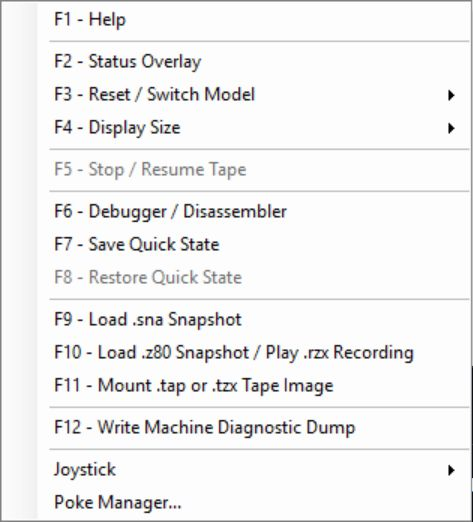
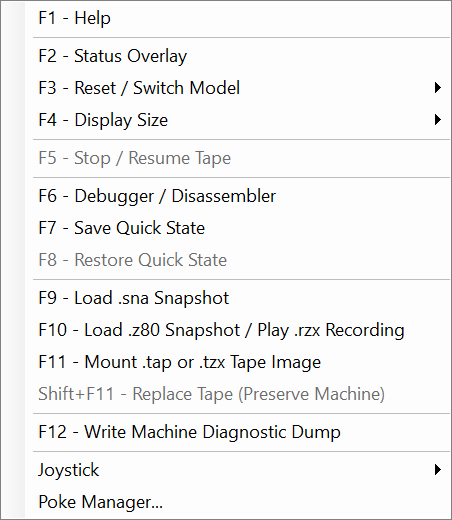
Add tape side replacement without reset

Changed region(s): [[0.0, 0.0, 1.0, 1.0], [0.0, 0.0, 0.031, 0.0308]]

diff --git a/Spectrum128kEmulator.Windows.Tests/MainFormMenuTests.cs b/Spectrum128kEmulator.Windows.Tests/MainFormMenuTests.cs
@@ -40,6 +40,7 @@ namespace Spectrum128kEmulator.Tests
                             "F9 - Load .sna Snapshot",
                             "F10 - Load .z80 Snapshot / Play .rzx Recording",
                             "F11 - Mount .tap or .tzx Tape Image",
+                            "Shift+F11 - Replace Tape (Preserve Machine)",
                             "---",
                             "F12 - Write Machine Diagnostic Dump",
                             "---",
@@ -75,6 +76,68 @@ namespace Spectrum128kEmulator.Tests
             Assert.False((bool)method.Invoke(null, [new KeyEventArgs(key | Keys.Shift), key])!);
             Assert.False((bool)method.Invoke(null, [new KeyEventArgs(key | Keys.Control), key])!);
             Assert.False((bool)method.Invoke(null, [new KeyEventArgs(key | Keys.Alt), key])!);
+        }
+
+        [Fact]
+        public void TapeReplacementShortcut_RequiresShiftF11()
+        {
+            MethodInfo method = typeof(MainForm).GetMethod(
+                "IsTapeReplacementShortcut",
+                BindingFlags.Static | BindingFlags.NonPublic)!;
+
+            Assert.True((bool)method.Invoke(null, [new KeyEventArgs(Keys.F11 | Keys.Shift)])!);
+            Assert.False((bool)method.Invoke(null, [new KeyEventArgs(Keys.F11)])!);
+            Assert.False((bool)method.Invoke(null, [new KeyEventArgs(Keys.F11 | Keys.Control)])!);
+            Assert.False((bool)method.Invoke(null, [new KeyEventArgs(Keys.F11 | Keys.Shift | Keys.Alt)])!);
+        }
+
+        [Fact]
+        public void ReplaceMountedTape_PreservesRunningMachineState()
+        {
+            string tapePath = Path.Combine(Path.GetTempPath(), $"replacement-{Guid.NewGuid():N}.tap");
+            File.WriteAllBytes(tapePath, [0x02, 0x00, 0xFF, 0xFF]);
+            Exception? failure = null;
+            var thread = new Thread(() =>
+            {
+                try
+                {
+                    using var form = new MainForm();
+                    MethodInfo acquirePauseMethod = typeof(MainForm).GetMethod(
+                        "AcquireEmulationPauseLease",
+                        BindingFlags.Instance | BindingFlags.NonPublic)!;
+                    using var pauseLease = (IDisposable)acquirePauseMethod.Invoke(form, null)!;
+                    FieldInfo machineField = typeof(MainForm).GetField(
+                        "machine",
+                        BindingFlags.Instance | BindingFlags.NonPublic)!;
+                    var machine = (Spectrum128Machine)machineField.GetValue(form)!;
+                    machine.Reset(SpectrumMachineModel.Spectrum48K);
+                    machine.Cpu.Regs.PC = 0x8123;
+                    machine.PokeMemory(0x9000, 0x5A);
+                    machine.MountTape(new Tap.MountedTape("side-1.tzx", Array.Empty<Tap.TapeBlock>()));
+
+                    MethodInfo replaceMethod = typeof(MainForm).GetMethod(
+                        "ReplaceMountedTape",
+                        BindingFlags.Instance | BindingFlags.NonPublic)!;
+                    var result = (Tap.TapMountResult)replaceMethod.Invoke(form, [tapePath])!;
+
+                    Assert.Same(machine, machineField.GetValue(form));
+                    Assert.Equal(SpectrumMachineModel.Spectrum48K, machine.MachineModel);
+                    Assert.Equal((ushort)0x8123, machine.Cpu.Regs.PC);
+                    Assert.Equal((byte)0x5A, machine.PeekMemory(0x9000));
+                    Assert.Equal(Path.GetFileName(tapePath), machine.MountedTapeName);
+                    Assert.Equal(1, result.TotalBlockCount);
+                }
+                catch (Exception exception)
+                {
+                    failure = exception;
+                }
+            });
+            thread.SetApartmentState(ApartmentState.STA);
+            thread.Start();
+            Assert.True(thread.Join(TimeSpan.FromSeconds(15)), "The tape replacement test timed out.");
+            File.Delete(tapePath);
+            if (failure != null)
+                throw new Xunit.Sdk.XunitException(failure.ToString());
         }
     }
 }

diff --git a/Forms/MainForm.Media.cs b/Forms/MainForm.Media.cs
@@ -53,7 +53,7 @@ namespace Spectrum128kEmulator
         {
             using var dialog = new OpenFileDialog
             {
-                Title = "Mount .tap Tape Image",
+                Title = "Mount Tape Image",
                 Filter = "Spectrum tape images (*.tap;*.tzx)|*.tap;*.tzx|All files (*.*)|*.*",
                 CheckFileExists = true,
                 Multiselect = false
@@ -112,6 +112,71 @@ namespace Spectrum128kEmulator
                     "Tape Mount Error",
                     MessageBoxButtons.OK,
                     MessageBoxIcon.Error);
+            }
+        }
+
+        private void ReplaceMountedTapeFromDialog()
+        {
+            lock (machineLock)
+            {
+                if (!machine.HasMountedTape)
+                    return;
+            }
+
+            using var dialog = new OpenFileDialog
+            {
+                Title = "Replace Mounted Tape (Preserve Machine)",
+                Filter = "Spectrum tape images (*.tap;*.tzx)|*.tap;*.tzx|All files (*.*)|*.*",
+                CheckFileExists = true,
+                Multiselect = false
+            };
+            using IDisposable pauseLease = AcquireEmulationPauseLease();
+
+            if (dialog.ShowDialog(this) != DialogResult.OK)
+                return;
+
+            try
+            {
+                string extension = Path.GetExtension(dialog.FileName);
+                string displayName = Path.GetFileName(dialog.FileName);
+                Tap.TapMountResult result = default!;
+                ExecuteWithEmulationPaused(() =>
+                {
+                    ClearHostAndSpectrumInputState();
+                    result = ReplaceMountedTape(dialog.FileName);
+                    fpsLabel.Text = $"{extension.TrimStart('.').ToUpperInvariant()} side mounted: {displayName} ({result.TotalBlockCount} blocks)";
+                });
+
+                SetLoadedMediaDisplayName(dialog.FileName);
+                SuppressSpectrumHostInputForMilliseconds(PostLoadInputSuppressionMilliseconds);
+                ShowMountedTapeTransportFeedback();
+                PresentCurrentMachineFrame(frameClock.ElapsedTicks, force: true);
+                screenBox.Focus();
+            }
+            catch (Exception ex)
+            {
+                MessageBox.Show(
+                    this,
+                    $"Failed to replace tape:\n{ex.Message}",
+                    "Tape Replacement Error",
+                    MessageBoxButtons.OK,
+                    MessageBoxIcon.Error);
+            }
+        }
+
+        private Tap.TapMountResult ReplaceMountedTape(string path)
+        {
+            string extension = Path.GetExtension(path);
+            lock (machineLock)
+            {
+                if (!machine.HasMountedTape)
+                    throw new InvalidOperationException("There is no mounted tape to replace.");
+
+                return extension.Equals(".tzx", StringComparison.OrdinalIgnoreCase)
+                    ? Tap.TzxLoader.Mount(machine, path)
+                    : extension.Equals(".tap", StringComparison.OrdinalIgnoreCase)
+                        ? Tap.TapLoader.Mount(machine, path)
+                        : throw new InvalidOperationException("Tape replacement requires a .tap or .tzx image.");
             }
         }
 

diff --git a/Forms/MainForm.cs b/Forms/MainForm.cs
@@ -70,6 +70,7 @@ namespace Spectrum128kEmulator
         private readonly ToolStripMenuItem disassemblerMenuItem = new ToolStripMenuItem("F6 - Debugger / Disassembler");
         private readonly ToolStripMenuItem saveQuickStateMenuItem = new ToolStripMenuItem("F7 - Save Quick State");
         private readonly ToolStripMenuItem restoreQuickStateMenuItem = new ToolStripMenuItem("F8 - Restore Quick State");
+        private readonly ToolStripMenuItem replaceTapeMenuItem = new ToolStripMenuItem("Shift+F11 - Replace Tape (Preserve Machine)");
         private readonly ToolStripMenuItem joystickMenuItem = new ToolStripMenuItem("Joystick");
         private readonly ToolStripMenuItem pokeManagerMenuItem = new ToolStripMenuItem("Poke Manager...");
 
@@ -237,6 +238,8 @@ namespace Spectrum128kEmulator
             displayContextMenu.Items.Add("F9 - Load .sna Snapshot", null, (_, _) => LoadSnaSnapshotFromDialog());
             displayContextMenu.Items.Add("F10 - Load .z80 Snapshot / Play .rzx Recording", null, (_, _) => LoadSnapshotOrRecordingFromDialog());
             displayContextMenu.Items.Add("F11 - Mount .tap or .tzx Tape Image", null, (_, _) => MountTapFromDialog());
+            replaceTapeMenuItem.Click += (_, _) => ReplaceMountedTapeFromDialog();
+            displayContextMenu.Items.Add(replaceTapeMenuItem);
             displayContextMenu.Items.Add(new ToolStripSeparator());
             displayContextMenu.Items.Add("F12 - Write Machine Diagnostic Dump", null, (_, _) => DumpMachineDebugState());
             displayContextMenu.Items.Add(new ToolStripSeparator());
@@ -248,6 +251,8 @@ namespace Spectrum128kEmulator
             {
                 UpdateTapeTransportMenuItem();
                 UpdateQuickStateMenuItems();
+                lock (machineLock)
+                    replaceTapeMenuItem.Enabled = machine.HasMountedTape;
             };
             UpdateMachineModelMenuItems();
             UpdateTapeTransportMenuItem();

diff --git a/Forms/MainForm.Input.cs b/Forms/MainForm.Input.cs
@@ -115,6 +115,14 @@ namespace Spectrum128kEmulator
                 return;
             }
 
+            if (IsTapeReplacementShortcut(e))
+            {
+                ReplaceMountedTapeFromDialog();
+                e.Handled = true;
+                e.SuppressKeyPress = true;
+                return;
+            }
+
             if (IsPlainShortcut(e, Keys.F11))
             {
                 MountTapFromDialog();
@@ -144,6 +152,9 @@ namespace Spectrum128kEmulator
             e.Handled = true;
             e.SuppressKeyPress = true;
         }
+
+        private static bool IsTapeReplacementShortcut(KeyEventArgs e) =>
+            e.KeyCode == Keys.F11 && e.Shift && !e.Control && !e.Alt;
 
         private void MainForm_KeyUp(object? sender, KeyEventArgs e)
         {

diff --git a/Forms/EmulatorHelpForm.cs b/Forms/EmulatorHelpForm.cs
@@ -25,6 +25,7 @@ namespace Spectrum128kEmulator
                 ("F9", "Load a 48K or 128K .sna snapshot"),
                 ("F10", "Load a .z80 snapshot or play an .rzx recording"),
                 ("F11", "Mount a .tap or .tzx tape image"),
+                ("Shift+F11", "Replace the mounted tape while preserving the running machine for multi-side releases"),
                 ("F12", "Write a machine diagnostic dump")
             ]),
             new("Debugger window",

diff --git a/docs/USER_GUIDE.md b/docs/USER_GUIDE.md
@@ -78,6 +78,7 @@ Press `F1` to open the quick-reference window. Emulation pauses while it is open
 | `F9` | Load a `.sna` snapshot |
 | `F10` | Load a `.z80` snapshot or play an `.rzx` recording |
 | `F11` | Mount a `.tap` or `.tzx` tape image |
+| `Shift+F11` | Replace the mounted tape while preserving the running machine |
 | `F12` | Write a machine diagnostic dump |
 | Right-click | Open the complete context menu |
 
@@ -169,6 +170,11 @@ Tape images reproduce a loading process rather than a finished machine state. Th
 
 Press `F11` and choose a `.tap` or `.tzx` image.
 
+For a multi-side release, wait until the game asks for the other side and press
+`Shift+F11`. Choose the next tape image to replace the mounted tape without
+resetting CPU, RAM, paging, or the running game. The same action is available
+from the right-click menu and is disabled until a tape is mounted.
+
 ## Automatic Loading
 
 The emulator selects a loading strategy from the tape structure:
@@ -200,8 +206,9 @@ The emulator also handles supported TZX pauses, stop markers, tape end, and dete
 
 1. Confirm the correct 48K/128K model was selected before mounting.
 2. Wait for the game to request the next section.
-3. Press `F5` once to resume if it did not resume automatically.
-4. If the game immediately errors, do not repeatedly toggle transport; record the displayed error and media filename for diagnosis.
+3. If the game requests another tape side, press `Shift+F11` and select it.
+4. Press `F5` once to resume if the mounted tape did not start automatically.
+5. If the game immediately errors, do not repeatedly toggle transport; record the displayed error and media filename for diagnosis.
 
 # Chapter 7 - Quick State
 

diff --git a/README.md b/README.md
@@ -221,6 +221,7 @@ that do not consume a function key.
 | `F9` | Load a 48K or 128K `.sna` snapshot |
 | `F10` | Load a `.z80` snapshot or play an `.rzx` recording |
 | `F11` | Mount a `.tap` or `.tzx` tape image |
+| `Shift+F11` | Replace the mounted tape without resetting the running machine |
 | `F12` | Write a machine diagnostic dump |
 
 The right-click `Joystick` submenu contains separate Controller 1 and Controller
@@ -480,6 +481,7 @@ compatibility; completed milestones remain regression baselines.
 ### Milestone 20 - Tape Architecture Hardening Complete
 - Documented current tape-state ownership and invariants across transport, load-strategy selection, continuation handling, threading, and Quick State restoration in [Tape State Ownership](docs/TAPE_STATE_OWNERSHIP.md)
 - Added focused machine-level lifecycle coverage for no-tape behavior, media replacement, eject, model reset, and stopped/ended Quick State restoration
+- Added explicit `Shift+F11` tape-side replacement that preserves the running CPU, RAM, paging, and machine model while mounting the next TAP/TZX side; the right-click menu exposes the same guarded action
 - Isolated tape read, loader-activity, handoff, and automatic-resume counters plus their Quick State in a dedicated activity tracker without changing transition policy
 - Centralized mounted-media identity, transport state, lifecycle transitions, and exact transport Quick State restoration in a dedicated controller
 - Moved automatic handoff stop/resume decisions behind the activity tracker and added direct coverage for all safety gates plus exact EAR-phase preservation
